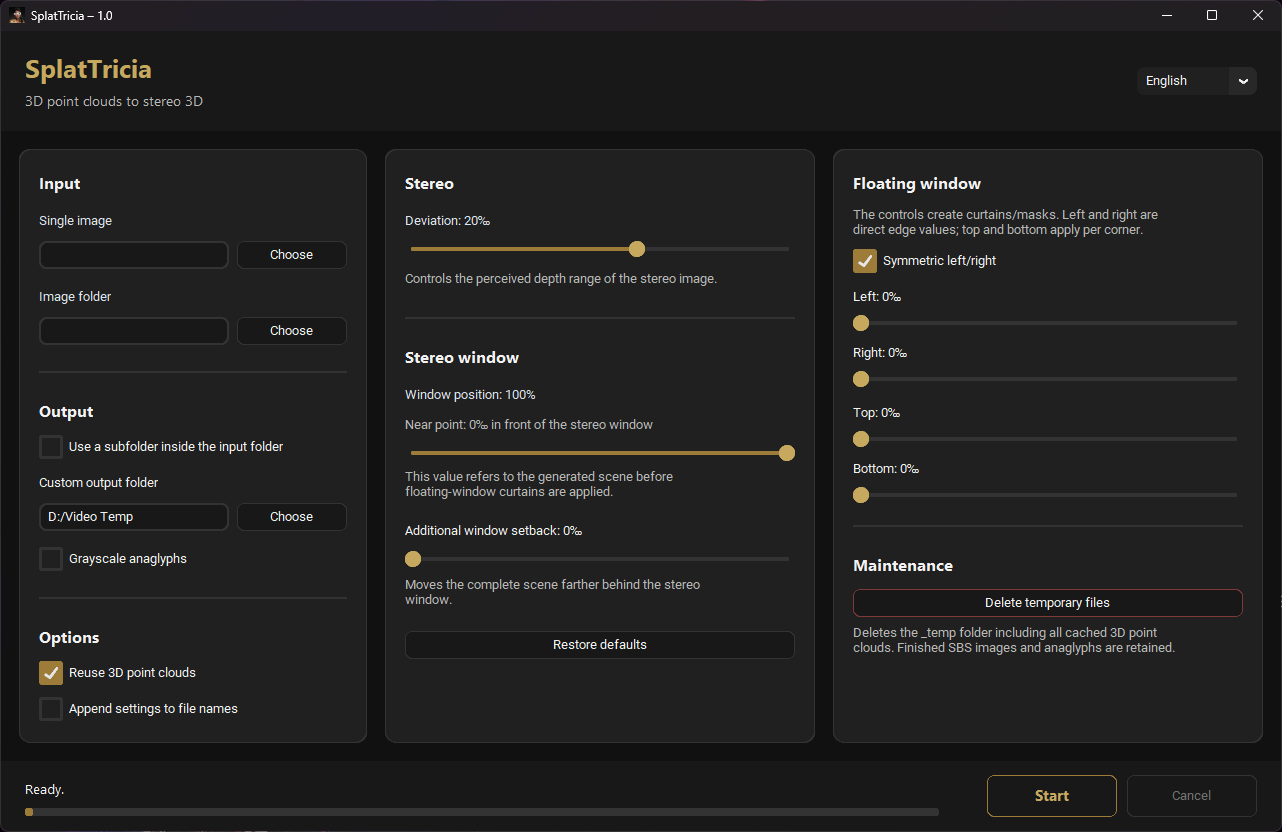
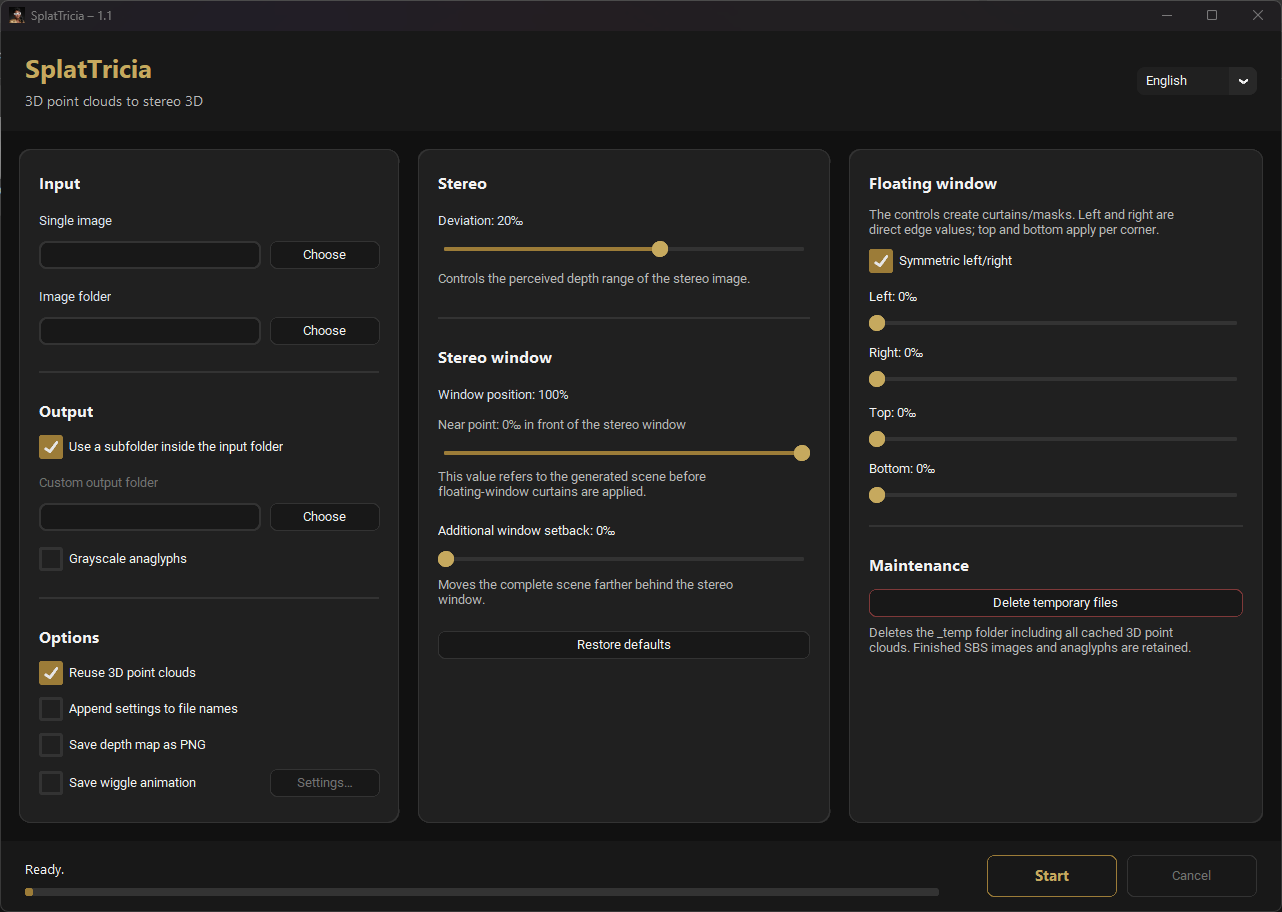
Update SplatTricia 1.1 repository screenshot

diff --git a/README_DE.md b/README_DE.md
@@ -8,7 +8,7 @@ SplatTricia ist ein lokales Windows-Werkzeug zur automatischen Konvertierung ein
 
 Die 3D-Rekonstruktion basiert auf **Apple SHARP**. SplatTricia verarbeitet Bilder lokal, führt keine automatischen Modell-Downloads durch und benötigt für die Benutzung keine Cloud oder Online-Verbindung.
 
-[![SplatTricia 1.0](docs/screenshots/SplatTricia.png)](docs/screenshots/SplatTricia.png)
+[![SplatTricia 1.1](docs/screenshots/SplatTricia.png)](docs/screenshots/SplatTricia.png)
 
 ## Voraussetzungen
 

diff --git a/README.md b/README.md
@@ -8,7 +8,7 @@ SplatTricia is a local Windows tool for automatically converting individual 2D i
 
 The 3D reconstruction is based on **Apple SHARP**. SplatTricia processes images locally, performs no automatic model downloads, and does not require cloud or online services for normal use.
 
-[![SplatTricia 1.0](docs/screenshots/SplatTricia.png)](docs/screenshots/SplatTricia.png)
+[![SplatTricia 1.1](docs/screenshots/SplatTricia.png)](docs/screenshots/SplatTricia.png)
 
 ## Requirements
 
